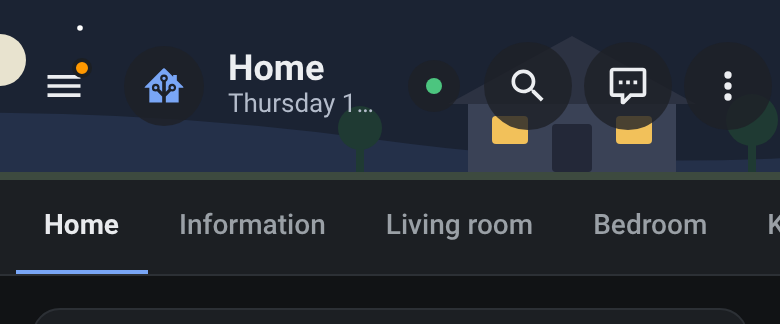
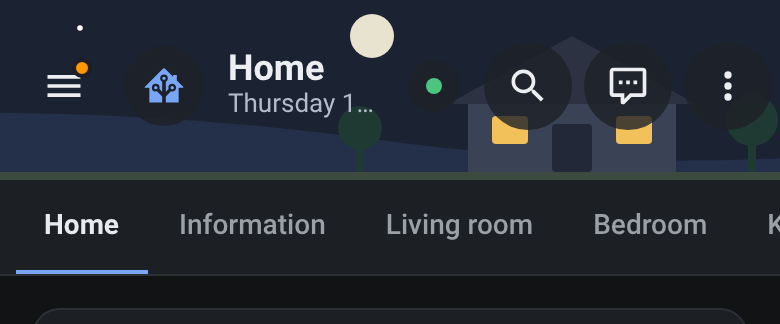
fix: anchor the scene sun to the right on phones (1.3.4) (#15)
On phones the band shows only the right end of the 1250-wide viewBox (as wide as the screen), so the sun of the Home, Energy and Family scenes, at a fixed x of the wide layout, landed under the title and the icon. On narrow screens it is now anchored to the right, just left of the house, above the subtitle and clear of Home Assistant's buttons, whatever the phone's width. Wider layouts are unchanged.

Claude-Session: https://claude.ai/code/session_01F4sAmz8MJrJ1BzWSWYxiPM

Changed region(s): [[0.4308, 0.0309, 0.5231, 0.1852], [0.0, 0.0926, 0.0308, 0.2778]]

diff --git a/src/dashboard-header.js b/src/dashboard-header.js
@@ -135,6 +135,10 @@
     `<rect x="${x + 74}" y="58" width="18" height="14" rx="2" fill="${lit2 ? c.winOn : c.winOff}"/>` +
     `<rect x="${x + 42}" y="62" width="20" height="24" rx="2" fill="${door}"/>` +
     (led ? `<circle class="${led.blink ? "blink" : ""}" cx="${x + 57}" cy="75" r="2.2" fill="${led.color}"/>` : "");
+  // The sun (or moon). On phones the band shows only the right end of the 1250-wide viewBox, as wide as the screen,
+  // so a sun at a fixed x of the wide layout lands under the title and the icon: it is anchored to the right instead,
+  // just left of the house, above the subtitle and clear of Home Assistant's buttons, whatever the phone's width.
+  const sun = (c, narrow, x, y, r) => `<circle cx="${narrow ? 1046 : x}" cy="${narrow ? 18 : y}" r="${narrow ? 11 : r}" fill="${c.sun}"/>`;
   const tree = (c, x, y, r) => `<circle cx="${x}" cy="${y}" r="${r}" fill="${c.tree}"/><rect x="${x - 2}" y="${y + 4}" width="4" height="${86 - y - 4}" fill="${c.tree}"/>`;
   const pylon = (c, x) => `<path d="M${x - 10} 86 L${x} 24 L${x + 10} 86 M${x - 6} 60 H${x + 6} M${x - 4} 44 H${x + 4} M${x - 14} 30 H${x + 14}" fill="none" stroke="${c.line}" stroke-width="2"/>`;
   // The roadside of ha-vehicle-card (rnSceneSvg / RN_SCENE_STYLE), at its own scale: its sky gradient, sun or moon,
@@ -196,9 +200,9 @@
       accent: "blue",
       bg: "sky",
       keys: ["lights"],
-      draw: (c, st) =>
+      draw: (c, st, _p, _mode, _hass, _val, narrow) =>
         stars(c, [[620, 18, 1.2], [760, 36, 1], [900, 14, 1.4], [1310, 22, 1.2]]) +
-        `<circle cx="860" cy="30" r="13" fill="${c.sun}"/>` +
+        sun(c, narrow, 860, 30, 13) +
         `<g fill="${c.cloud}"><ellipse cx="660" cy="30" rx="34" ry="9"/><ellipse cx="682" cy="24" rx="20" ry="9"/><ellipse cx="1290" cy="40" rx="28" ry="7"/></g>` +
         hills(c, "M0 72 Q175 54 350 68 T700 64 T1050 70 T1400 62 V90 H0z") +
         tree(c, 1040, 64, 11) +
@@ -334,8 +338,8 @@
       accent: "amber",
       bg: "sky",
       keys: ["tempo", "power"],
-      draw: (c, st, p, mode) =>
-        `<circle cx="880" cy="30" r="14" fill="${c.sun}"/>` +
+      draw: (c, st, p, mode, _hass, _val, narrow) =>
+        sun(c, narrow, 880, 30, 14) +
         hills(c, "M0 74 Q250 60 500 70 T1000 66 T1400 70 V90 H0z") +
         `<path d="M966 30 C1080 48 1190 48 1286 30 M994 30 C1100 52 1200 52 1314 30" fill="none" stroke="${c.line}" stroke-width="1"/>` +
         pylon(c, 980) +
@@ -400,11 +404,11 @@
       accent: "red",
       bg: "sky",
       keys: ["school", "bin"],
-      draw: (c, st, p) => {
+      draw: (c, st, p, _mode, _hass, _val, narrow) => {
         const school = st.school === undefined ? true : truthy(st.school);
         const bin = binColor(st.bin);
         return (
-          `<circle cx="920" cy="28" r="12" fill="${c.sun}"/>` +
+          sun(c, narrow, 920, 28, 12) +
           `<g fill="${c.cloud}"><ellipse cx="1000" cy="26" rx="26" ry="8"/><ellipse cx="1350" cy="36" rx="30" ry="8"/></g>` +
           hills(c, "M0 74 Q250 60 500 70 T1000 66 T1400 70 V90 H0z") +
           `<path d="M1150 34 V8" stroke="${c.line}" stroke-width="2"/>` +
@@ -718,7 +722,7 @@
           // On a phone the pills get their own scrolling row under the bar.
           (showTabs && narrow ? `<nav class="pills row" aria-label="${esc(views)}">${tabHtml}</nav>` : "")
         : `<div class="bar band" style="background:${esc(bandBg)}">` +
-          (scene ? `<svg class="scene" viewBox="0 0 ${narrow ? 1250 : 1600} 90" preserveAspectRatio="xMaxYMax slice" aria-hidden="true">${scene.draw(c, st, p, mode, hass, (x) => this.value(x))}</svg>` : "") +
+          (scene ? `<svg class="scene" viewBox="0 0 ${narrow ? 1250 : 1600} 90" preserveAspectRatio="xMaxYMax slice" aria-hidden="true">${scene.draw(c, st, p, mode, hass, (x) => this.value(x), narrow)}</svg>` : "") +
           `${identity}${pill}</div>` +
           (showTabs ? `<nav class="tabs" aria-label="${esc(views)}">${tabHtml}</nav>` : "");
 

diff --git a/CHANGELOG.md b/CHANGELOG.md
@@ -1,5 +1,10 @@
 # Changelog
 
+## 1.3.4 - 2026-11-21
+
+### Fixes
+- Phones: the sun of the Home, Energy and Family scenes no longer sits under the title and the icon (or half out of the band). On narrow screens it is anchored to the right, just left of the house, whatever the phone's width.
+
 ## 1.3.3 - 2026-11-21
 
 ### Fixes
